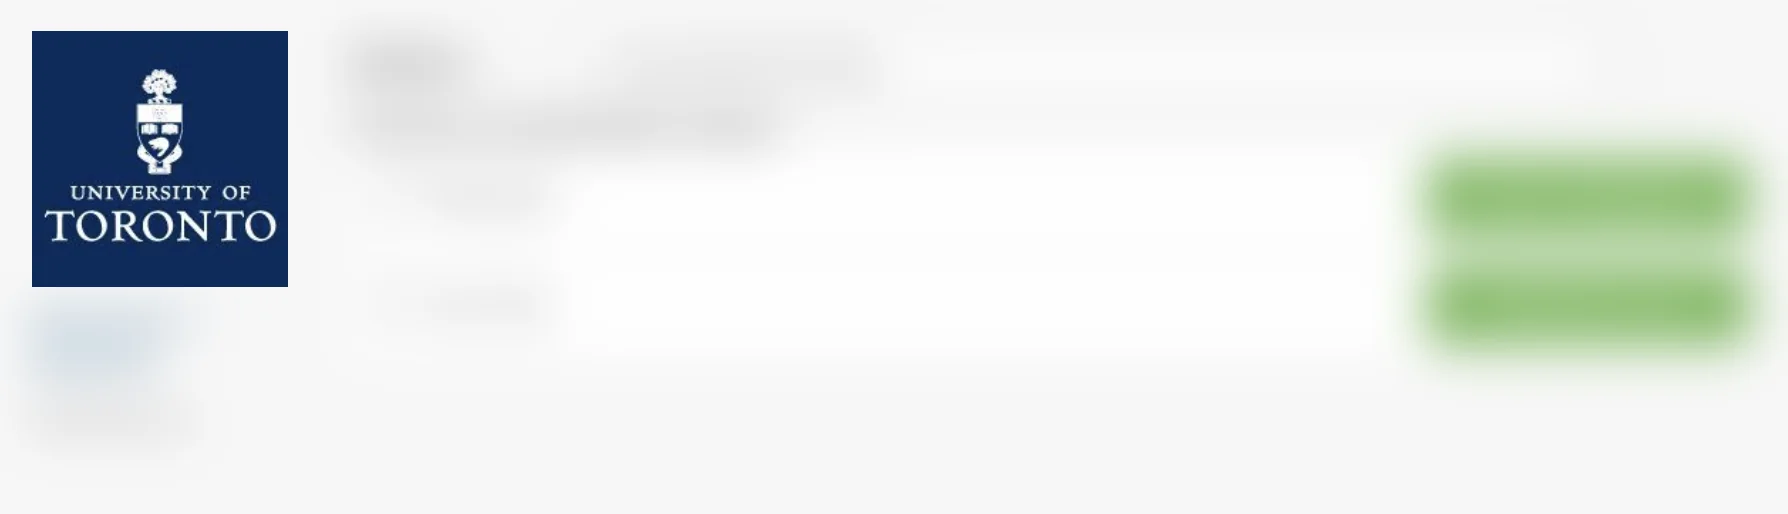
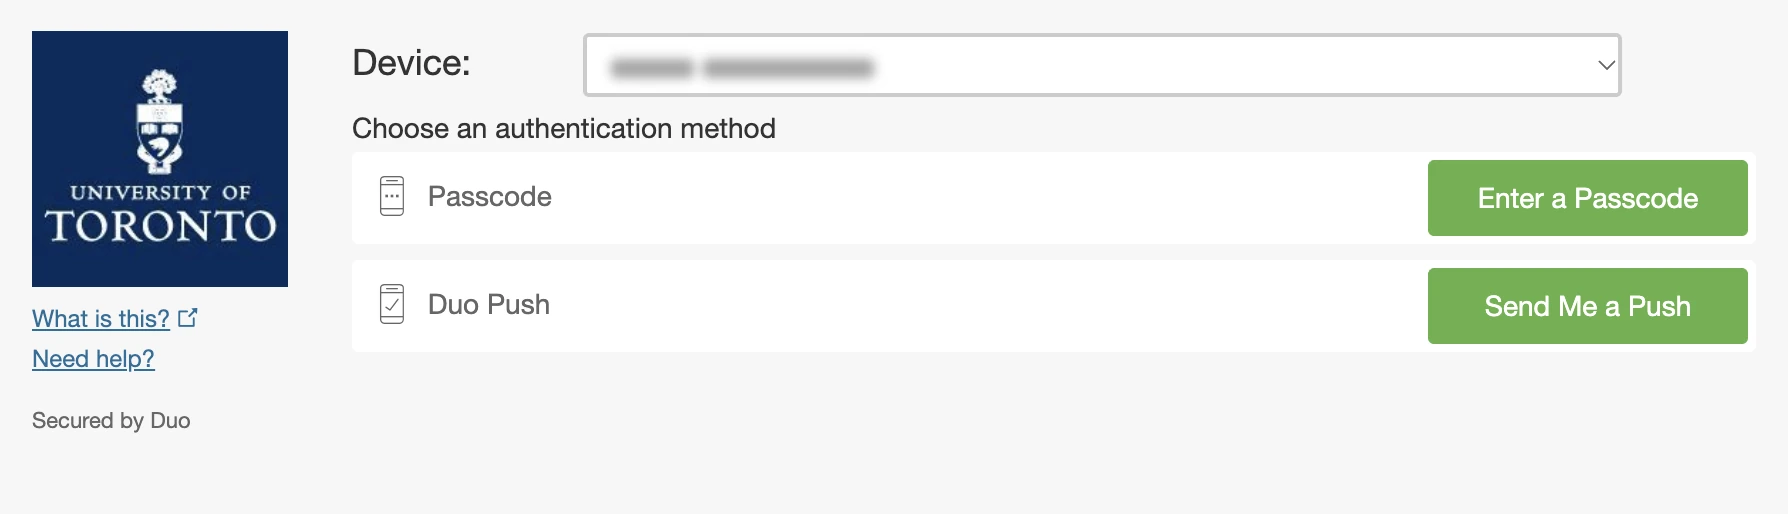
Blur only the device names and numbers in Duo's example screenshots
The portal and Authenticate steps showed Duo blurred all over, except for
the school's logo and one label, so students couldn't match the page they
saw. Now everything Duo shows stays sharp: "Device:", "Choose an
authentication method", the buttons, the links and the select's outline.
Only what belongs to an account is blurred: the device name and number in
the Device select, and on My Settings & Devices the two devices and the
default device.

Those runs were painted over and replaced by blurred bars as long as each
word, so the images hold no digits to recover.

diff --git a/packages/me/unduo/configs/web/__tests__/auditable.test.ts b/packages/me/unduo/configs/web/__tests__/auditable.test.ts
@@ -736,7 +736,7 @@ describe.runIf(enabled)("browser", { timeout: 180_000 }, () => {
       opener: null,
     });
     expect(openPortal("null")).toMatchObject({ followed: true, popup: true });
-    // Instead of guidance, an example of Duo once signed in, blurred but for the logo and Settings.
+    // Instead of guidance, an example of Duo once signed in, with only the device blurred.
     expect(evaluate("document.querySelector('.signed-in-text').textContent")).toBe(
       "Press Continue when you see a page like this:",
     );
@@ -753,11 +753,11 @@ describe.runIf(enabled)("browser", { timeout: 180_000 }, () => {
       [
         [
           "In a narrow window",
-          "Duo's sign-in prompt in a narrow window, blurred except for the school's logo and its Settings button",
+          "Duo's sign-in prompt in a narrow window, with the device's name and number blurred",
         ],
         [
           "In a wide window",
-          "Duo's sign-in prompt in a wide window, blurred except for the school's logo",
+          "Duo's sign-in prompt in a wide window, with the device's name and number blurred",
         ],
       ].map((figure) => [...figure, selfContained ? "data:" : "blob:"]),
     );
@@ -790,7 +790,7 @@ describe.runIf(enabled)("browser", { timeout: 180_000 }, () => {
         "(({ alt, src }) => [alt, src.slice(0, 5)])(document.querySelector('.signed-in-example img'))",
       ),
     ).toEqual([
-      "Duo's My Settings & Devices page, blurred except for the school's logo and the page's heading",
+      "Duo's My Settings & Devices page, with the devices' names and numbers blurred",
       selfContained ? "data:" : "blob:",
     ]);
     browser("wait", "--fn", "document.activeElement.id === 'step-title'");

diff --git a/packages/me/unduo/components/setup/portal/portal-screenshots.server.ts b/packages/me/unduo/components/setup/portal/portal-screenshots.server.ts
@@ -2,29 +2,27 @@ import { attributes, escapeText } from "@-/me.unduo.lib.dom/server";
 
 /**
  * What Duo shows once the student is signed in, in a narrow window and a wide
- * one: blurred, but for the school's logo and, where it has one, the Settings button.
+ * one, with only the device's name and number blurred.
  */
 const signedIn = [
   {
     file: "0-signed-in-narrow",
     caption: "In a narrow window",
-    label:
-      "Duo's sign-in prompt in a narrow window, blurred except for the school's logo and its Settings button",
+    label: "Duo's sign-in prompt in a narrow window, with the device's name and number blurred",
     size: "narrow",
   },
   {
     file: "0-signed-in-wide",
     caption: "In a wide window",
-    label: "Duo's sign-in prompt in a wide window, blurred except for the school's logo",
+    label: "Duo's sign-in prompt in a wide window, with the device's name and number blurred",
     size: "wide",
   },
 ];
 
-/** Duo's My Settings & Devices page, where signing in lands: blurred, but for the school's logo and the page's heading. */
+/** Duo's My Settings & Devices page, where signing in lands, with only the devices' names and numbers blurred. */
 const settings = {
   file: "0-settings-devices",
-  label:
-    "Duo's My Settings & Devices page, blurred except for the school's logo and the page's heading",
+  label: "Duo's My Settings & Devices page, with the devices' names and numbers blurred",
 };
 
 const screenshots = [

diff --git a/packages/me/unduo/components/setup/portal/README.md b/packages/me/unduo/components/setup/portal/README.md
@@ -1,3 +1,3 @@
 # @-/me.unduo.components.setup.portal
 
-Duo device portal guidance and example enrollment screenshots. `portalStep(school, page)` builds the step with the institution's portal link, note and source, which the page's `#setup` element holds as data attributes, then "Press **Continue** when you see a page like this:" over two examples of Duo once you're signed in, in a narrow window and a wide one, blurred except for the school's logo and the Settings button. `authenticateStep(page)` builds the next step: authenticate with Duo as usual, with a passcode or a push, and press **Continue** on the My Settings & Devices page, shown blurred except for the school's logo and the page's heading. `portalInstructions(page)` builds the instructions the QR step shows. `portalScreenshots`, from `@-/me.unduo.components.setup.portal/server`, writes the screenshots' captions and pinned URLs into three `<template>`s: `#portal-signed-in`, which `portalStep` copies, `#portal-settings`, which `authenticateStep` copies, and `#portal-screenshot-figures`, which `portalInstructions` copies; the build checks their URLs and pins, so they stay in the page's HTML. The link calls the setup page's `popup` to open the portal in a small window beside the steps, and `#portal-url` shows the same link with a Copy button for pasting into a new window. The instructions accept an `imageUrls` record and show the screenshots in a `<details>` element.
+Duo device portal guidance and example enrollment screenshots. `portalStep(school, page)` builds the step with the institution's portal link, note and source, which the page's `#setup` element holds as data attributes, then "Press **Continue** when you see a page like this:" over two examples of Duo once you're signed in, in a narrow window and a wide one, with only the device's name and number blurred. `authenticateStep(page)` builds the next step: authenticate with Duo as usual, with a passcode or a push, and press **Continue** on the My Settings & Devices page, shown with only the devices' names and numbers blurred. `portalInstructions(page)` builds the instructions the QR step shows. `portalScreenshots`, from `@-/me.unduo.components.setup.portal/server`, writes the screenshots' captions and pinned URLs into three `<template>`s: `#portal-signed-in`, which `portalStep` copies, `#portal-settings`, which `authenticateStep` copies, and `#portal-screenshot-figures`, which `portalInstructions` copies; the build checks their URLs and pins, so they stay in the page's HTML. The link calls the setup page's `popup` to open the portal in a small window beside the steps, and `#portal-url` shows the same link with a Copy button for pasting into a new window. The instructions accept an `imageUrls` record and show the screenshots in a `<details>` element.

diff --git a/packages/me/unduo/components/setup/README.md b/packages/me/unduo/components/setup/README.md
@@ -12,12 +12,12 @@ five steps:
 1. **Open your Duo device portal** (`portalStep`). The institution's verified
    portal when known, then an example of what Duo shows once you're signed in
    in a narrow and a wide window (`setup-0-signed-in-narrow.webp` and
-   `setup-0-signed-in-wide.webp`, blurred except for the school's logo and the
-   Settings button): press **Continue** when you see a page like it.
+   `setup-0-signed-in-wide.webp`, with only the device's name and number
+   blurred): press **Continue** when you see a page like it.
 2. **Authenticate with Duo** (`authenticateStep`). Authenticate as usual, with a
    passcode or a push, and press **Continue** on Duo's My Settings & Devices page,
-   shown in `setup-0-settings-devices.webp` (blurred except for the school's logo
-   and the page's heading).
+   shown in `setup-0-settings-devices.webp` (with only the devices'
+   names and numbers blurred).
 3. **Copy the activation QR code** (`linkStep`). How to add a device, optional
    example screenshots, and one input. Anything pasted anywhere on the page
    (from the portal step too) is routed by the
